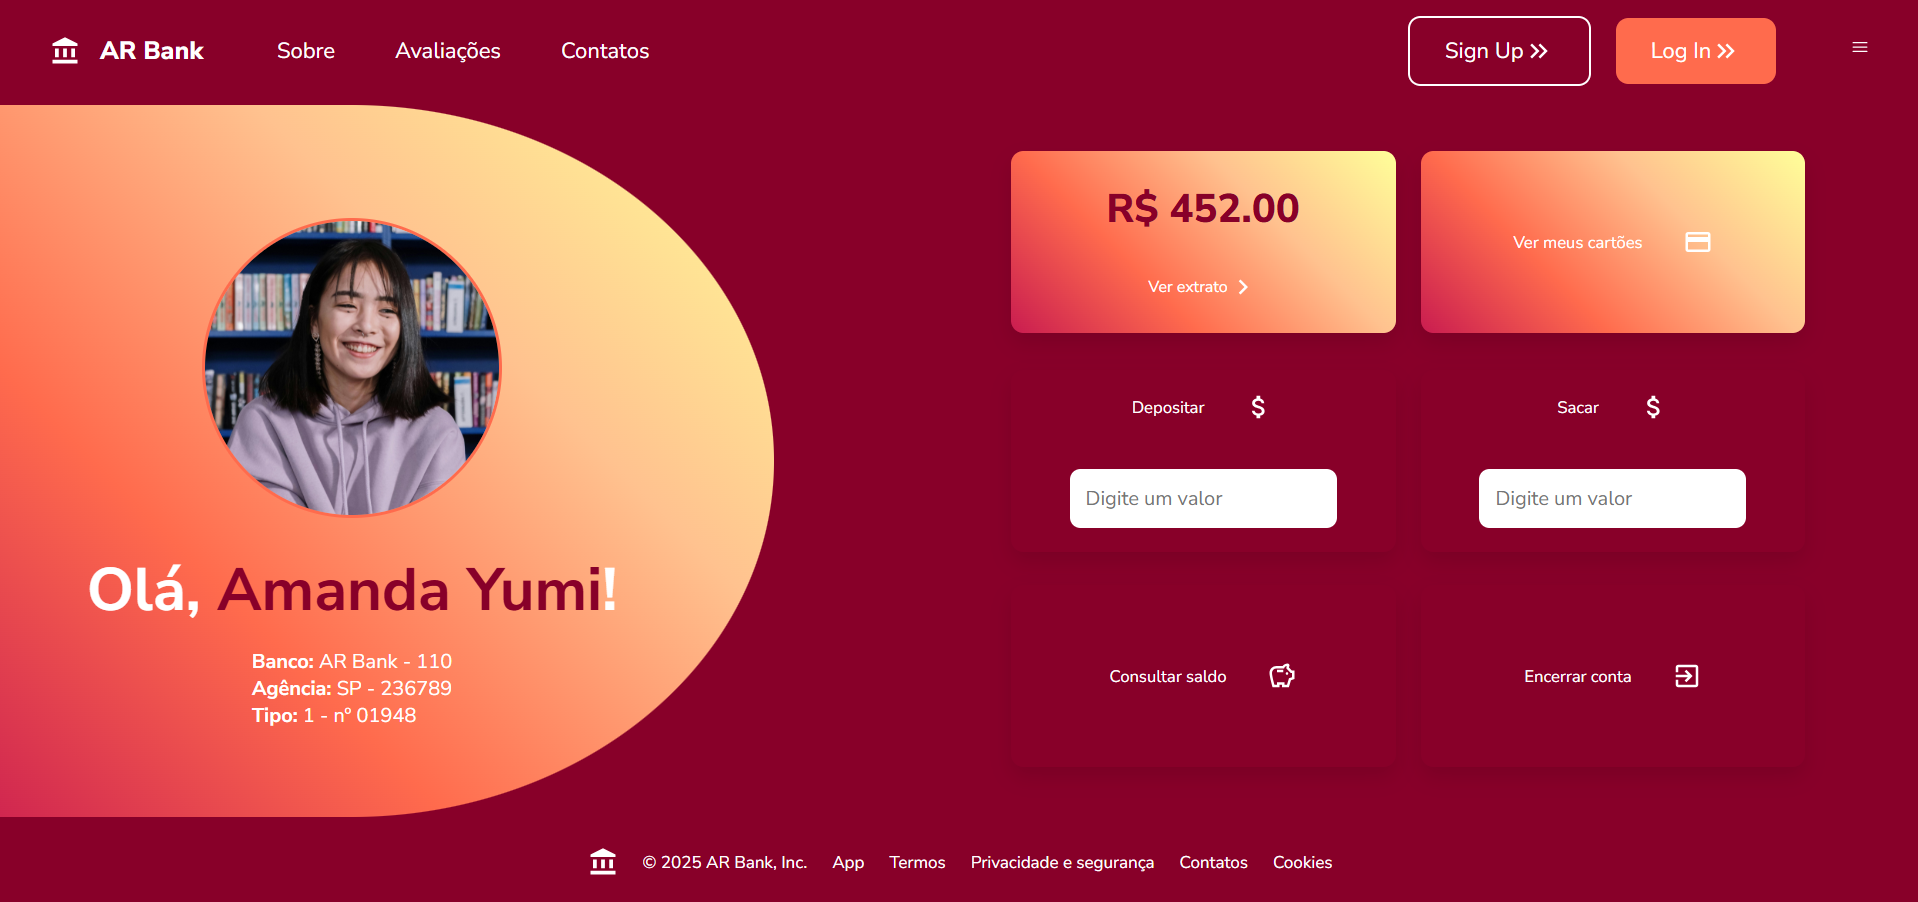
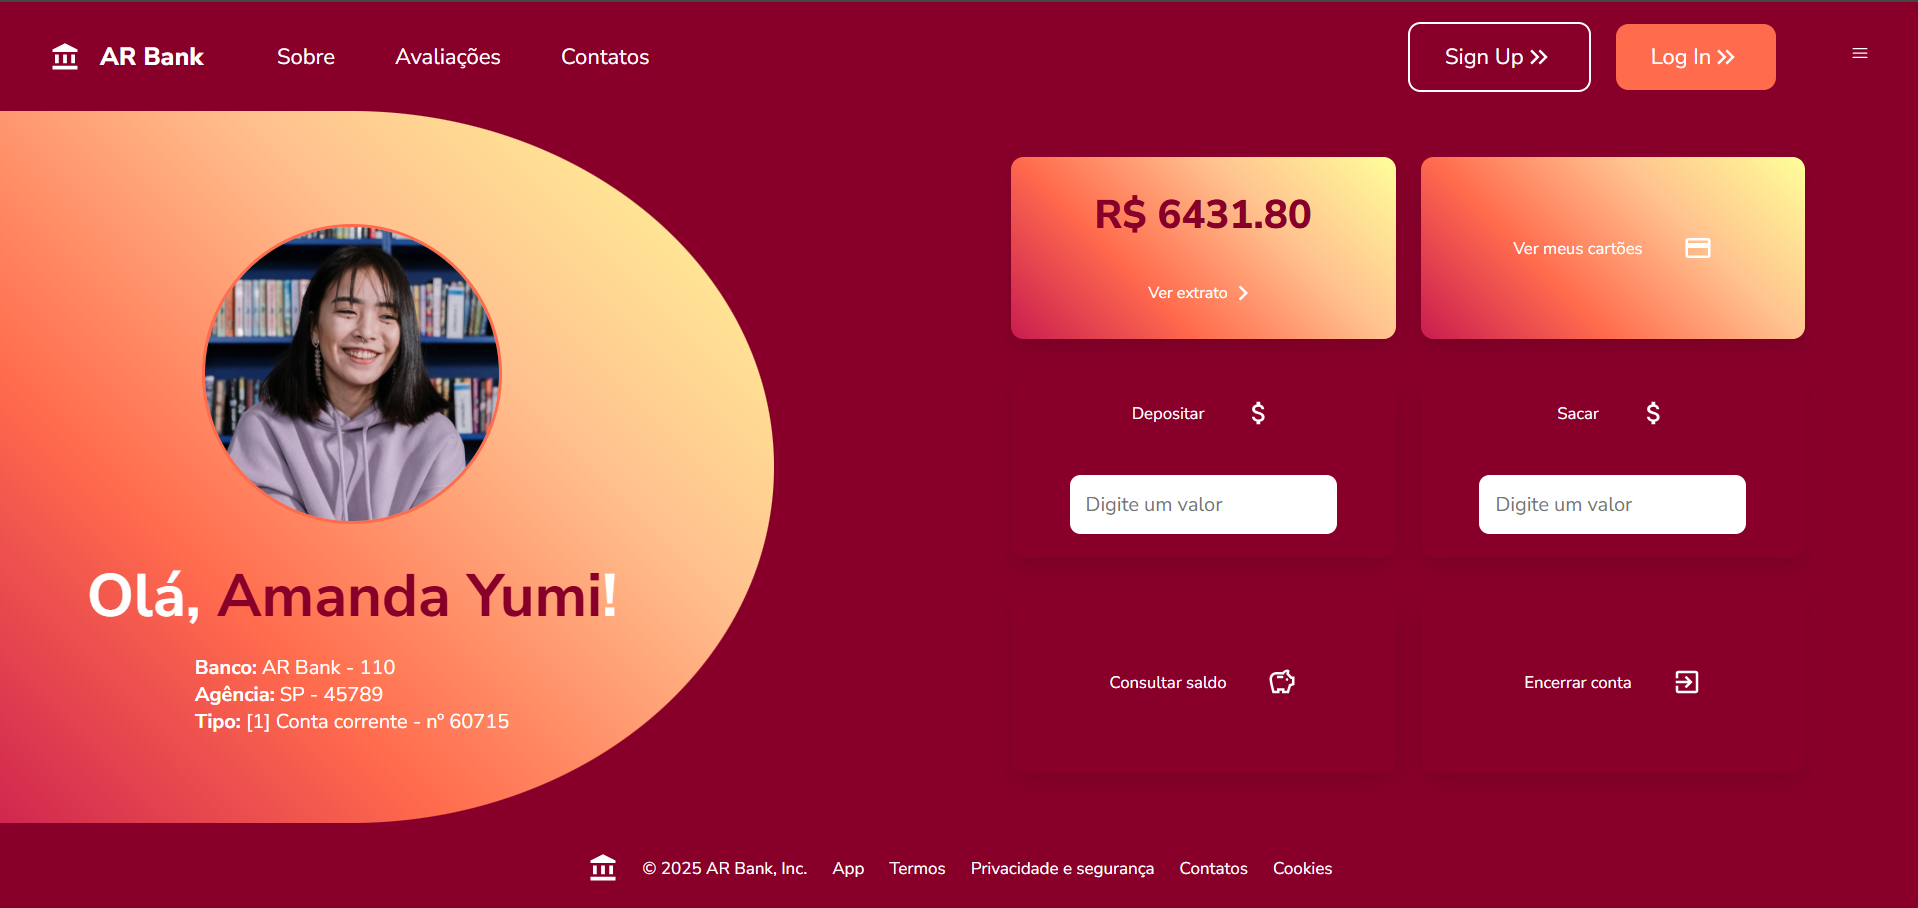
última atualização

diff --git a/projeto-base/src/components/SistemaBancario.jsx b/projeto-base/src/components/SistemaBancario.jsx
@@ -18,6 +18,19 @@ const SistemaBancario = () => {
     const [saldo, setSaldo] = useState(0);
     const [valorOperacaoD, setValorOperacaoD] = useState("");
     const [valorOperacaoS, setValorOperacaoS] = useState("");
+    const [entradas, setEntradas] = useState(0);
+    const [saidas, setSaidas] = useState(0);
+    const [mostrarSaldo, setMostrarSaldo] = useState(false);
+
+    const toggleSaldo = () => {
+        setMostrarSaldo(!mostrarSaldo);
+    };
+
+    const tipoContaMap = {
+      1: 'Conta corrente',
+      2: 'Conta poupança',
+      3: 'Conta conjunta'
+    };
 
     const abrirConta = (e) => {
         e.preventDefault();
@@ -49,7 +62,8 @@ const SistemaBancario = () => {
         const valor = parseFloat(valorOperacaoD);
         if (valor > 0) {
             setSaldo(saldo + valor);
-            setValorOperacaoD("");         
+            setEntradas(entradas + valor);  
+            setValorOperacaoD("");       
         } else {
           alert('Erro ao depositar, digite um valor válido!');          
         }
@@ -59,6 +73,7 @@ const SistemaBancario = () => {
         const valor = parseFloat(valorOperacaoS);
         if (valor > 0 && valor <= saldo) {
             setSaldo(saldo - valor);
+            setSaidas(saidas + valor);  
             setValorOperacaoS("");
         } else {
             alert('Saldo insuficiente para sacar!');
@@ -154,7 +169,7 @@ const SistemaBancario = () => {
                       <div className="perfil-card__infos">
                         <p><b>Banco:</b> {conta.banco_nome} - {conta.banco_numero}</p>
                         <p><b>Agência:</b> {conta.ag_nome} - {conta.ag_numero}</p>
-                        <p><b>Tipo:</b> {conta.tipo} - nº {conta.numero}</p>
+                        <p><b>Tipo:</b> [{conta.tipo}] {tipoContaMap[conta.tipo]} - nº {conta.numero}</p>
                       </div>
 
                     </div>
@@ -178,8 +193,17 @@ const SistemaBancario = () => {
                         <input type="number" placeholder="Digite um valor" value={valorOperacaoS} onChange={(e) => setValorOperacaoS(e.target.value)} /> 
                       </div>
 
-                      <div className="grid-functions__card">
-                        <button className='grid-functions__cardButton'>Consultar saldo <SavingsOutlinedIcon /></button>
+                      <div className="grid-functions__card details-saldo">
+                        <button className='grid-functions__cardButton' onClick={toggleSaldo}>
+                            Consultar saldo <SavingsOutlinedIcon />
+                        </button>
+                        {mostrarSaldo && (
+                            <div className="details-saldo__card">
+                                <p><b>Saldo:</b> <span>R$ {saldo.toFixed(2)}</span></p>
+                                <p><b>Entradas:</b> <span className='tagEntradas'>R$ {entradas.toFixed(2)}</span></p>
+                                <p><b>Saídas:</b> <span className='tagSaidas'>R$ {saidas.toFixed(2)}</span></p>
+                            </div>
+                        )}
                       </div>
 
                       <div className="grid-functions__card">

diff --git a/projeto-base/src/styles/SistemaBancario.css b/projeto-base/src/styles/SistemaBancario.css
@@ -197,6 +197,29 @@ select:focus {
     color: #ff6b4d;
 }
 
+.details-saldo__card {
+    display: flex;
+    flex-direction: column;
+    align-items: center;
+    justify-content: center;
+    width: auto;
+}
+
+.details-saldo__card p {
+    font-size: .9rem;
+    color: #fff;
+    white-space: nowrap;  
+    overflow: hidden;  
+}
+
+.details-saldo__card .tagEntradas {
+    color: #81ff7a;
+}
+
+.details-saldo__card .tagSaidas {
+    color: #e70b04f6;
+}
+
 .button-login {
     background: none;
     border: none;

diff --git a/README.md b/README.md
@@ -1,7 +1,19 @@
-
 # AR Bank 
 
-Projeto de sistema bancário simples utilizando React.js e Vite.js.
+O AR Bank é um sistema bancário simples desenvolvido com o objetivo de simular operações bancárias. O sistema permite a interação com informações de conta bancária, cadastro de clientes, login de usuários e visualização do perfil. O projeto utiliza React.js para a construção da interface de usuário e Vite.js como bundler, garantindo um ambiente de desenvolvimento rápido e eficiente.
+
+## Funcionalidades
+
+- **Abrir conta**: simulação de cadastro, em que o usuário fornece informações como nome, agência, banco e tipo de conta. O sistema recebe os dados da conta e insere 0 como estado do saldo.
+  
+- **Login**: simulação de login a partir de número de conta criado no cadastro (gerado de forma aleatória).
+
+- **Perfil**: após o login, o sistema exibe as informações do usuário, incluindo nome, banco, agência, número da conta e tipo de conta.
+
+**Operações bancárias simuladas**:
+- **Depositar**: adiciona o valor recebido no parâmetro no estado saldo; 
+- **Sacar**: o usuário pode visualizar o saldo atual de sua conta, total de entradas e saídas;
+- **Consultar saldo**: retira o valor recebido como parâmetro do estado saldo. 
 
 
 ## Screenshots
@@ -13,6 +25,8 @@ Projeto de sistema bancário simples utilizando React.js e Vite.js.
 ![Website/login Screenshot](/projeto-base/public/screenshot-login-projeto.png)
 <br>
 ![Website/login Screenshot](/projeto-base/public/screenshot-perfil-projeto.png)
+<br>
+![Website/login Screenshot](/projeto-base/public/screenshot-menu-projeto.png)
 
 ## Para executar localmente
 
